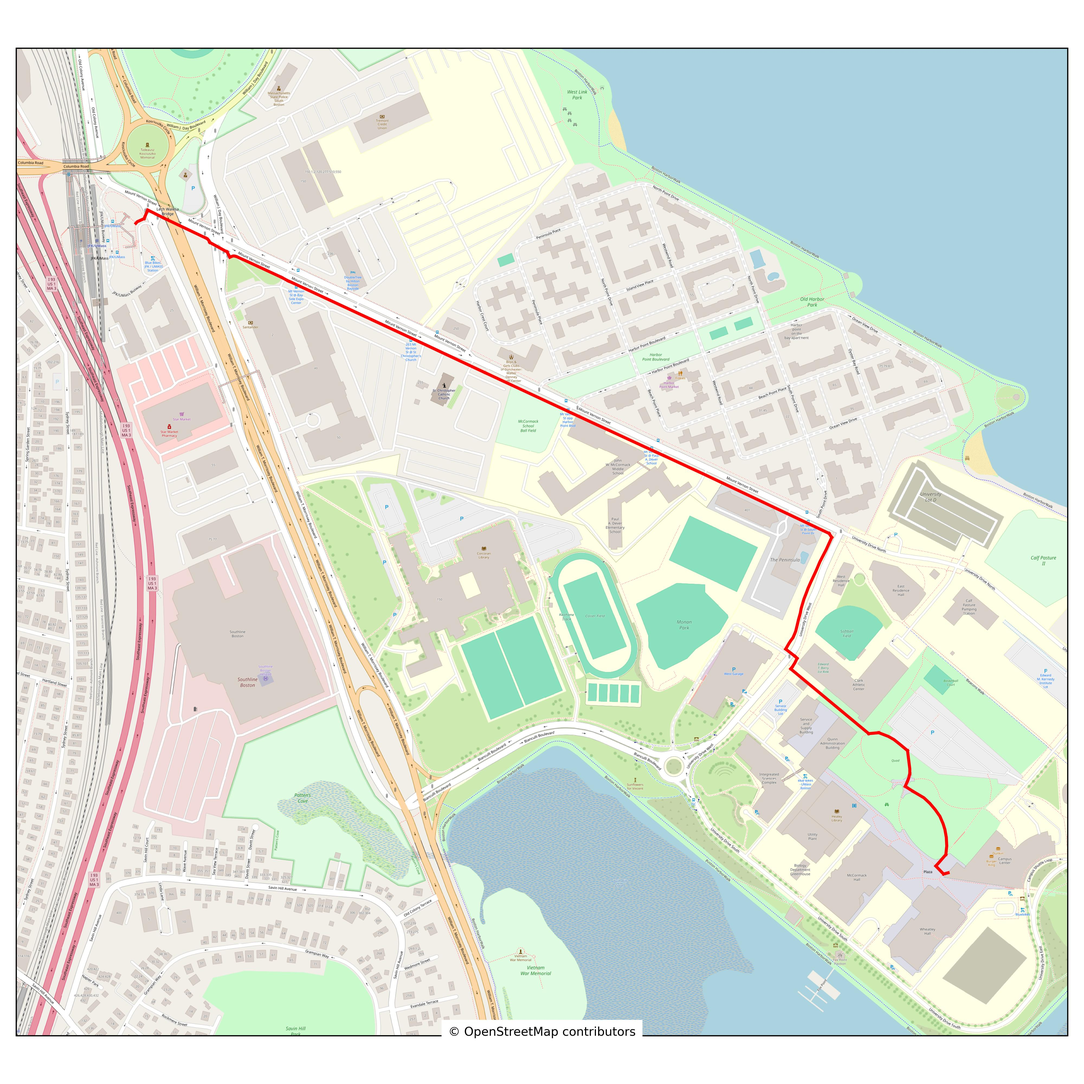
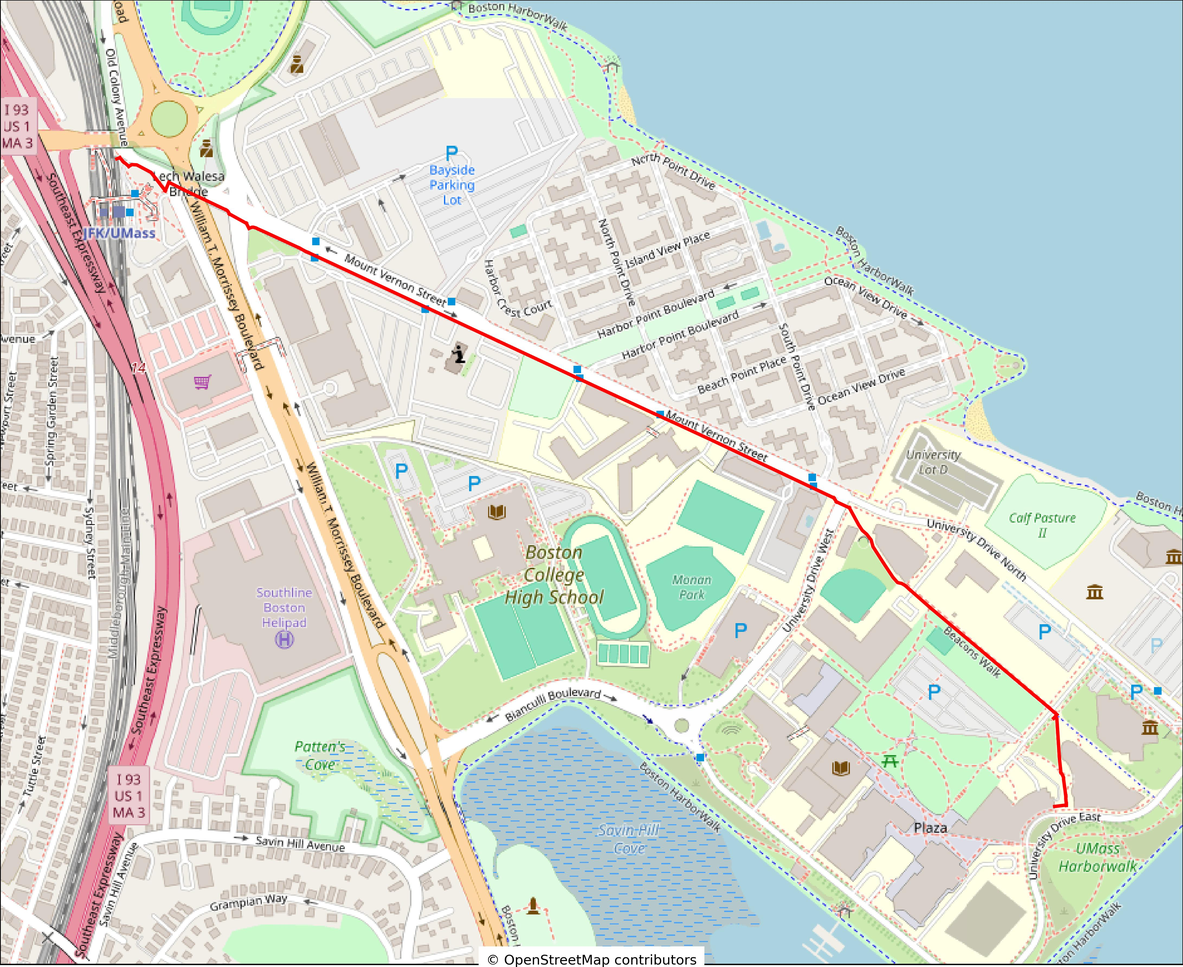
Add search for locations by name (#8)
* Add search for locations that have entrance node in the graph
* Add search soft-matching for locations with no entrance using closest node in a pedestrian way
* Add user interface for search in main file
* update graph area so MBTA red line station is not cut off

diff --git a/src/osm.py b/src/osm.py
@@ -7,7 +7,7 @@ import networkx as nx
 import pickle
 
 UMB_REGION = [
-    (42.3196561, -71.0520413),
+    (42.31984190454275, -71.05251184318851),
     (42.3202193, -71.0510167),
     (42.3175209, -71.0415681),
     (42.3134307, -71.0430135),
@@ -15,14 +15,12 @@ UMB_REGION = [
     (42.3133297, -71.0324853),
     (42.3189148, -71.0332685),
     (42.3235297, -71.0451844),
-    (42.3212511, -71.0521287),
-    (42.3196561, -71.0520413),
+    (42.32119679444875, -71.05265041751876),
+    (42.31984190454275, -71.05251184318851),
 ]
 
 
-def __gcdist(
-    lat0: np.double, lon0: np.double, lat1: np.double, lon1: np.double
-) -> np.single:
+def __gcdist(lat0: np.double, lon0: np.double, lat1: np.double, lon1: np.double) -> np.single:
     """
     Calculate the great circle distance in km between two points in meters using a haversine formula.
     :param lat0:
@@ -43,9 +41,7 @@ def __gcdist(
     return 6378137 * 2 * np.arcsin(np.sqrt(a))
 
 
-def __weight(
-    way: overpy.Way, node1: int = None, node2: int = None
-) -> (float, np.ndarray):
+def __weight(way: overpy.Way, node1: int = None, node2: int = None) -> (float, np.ndarray):
     """
     Calculate the weight of a way using the haversine distance between the points on the path and adds returns the weight and points
     :param way: overpy.Way to for weight to be computed on
@@ -116,8 +112,7 @@ def get_ways(filepath="umb_way_data.pkl", force_download=False) -> overpy.Result
     """
     # check if we already have OpenStreetMap data downloaded if it is less than 24 hours old we import it
     if (
-        os.path.isfile(filepath)
-        and time.time() - os.path.getctime(filepath) > 24 * 60 * 60
+        os.path.isfile(filepath) and time.time() - os.path.getctime(filepath) > 24 * 60 * 60
     ) and not force_download:
         with open(filepath, "rb") as f:
             return pickle.load(f)
@@ -132,9 +127,7 @@ def get_ways(filepath="umb_way_data.pkl", force_download=False) -> overpy.Result
     return ways
 
 
-def convert_ways_to_graph(
-    osm_data: overpy.Result, remove_component_size=10
-) -> nx.Graph:
+def convert_ways_to_graph(osm_data: overpy.Result, remove_component_size=10) -> nx.Graph:
     """
     creates a networkx graph of ways from OpenStreetMap where the weight is the GC distance between the points along the points of the way
     :param osm_data: OpenStreetMap data from overpy
@@ -160,7 +153,7 @@ def convert_ways_to_graph(
         if "area" in way.tags.keys() and way.tags["area"] == "yes":
             nodes = np.array(way._node_ids, dtype=np.int64)
         else:
-            _,_,node_indices = np.intersect1d(graph_nodes, way._node_ids, return_indices=True)
+            _, _, node_indices = np.intersect1d(graph_nodes, way._node_ids, return_indices=True)
             nodes = np.take(np.array(way._node_ids), np.sort(node_indices))
         for i in range(len(nodes) - 1):
             weight, points = __weight(way, nodes[i], nodes[i + 1])
@@ -173,9 +166,7 @@ def convert_ways_to_graph(
     return graph
 
 
-def get_graph(
-    filepath="umb_graph.pkl", force_download=False, remove_component_size=10
-) -> nx.Graph:
+def get_graph(filepath="umb_graph.pkl", force_download=False, remove_component_size=10) -> nx.Graph:
     """
     gets data from OpenStreetMaps and converts it into a networkx graph
     :param filepath: the path to the pickle file containing the networkx graph

diff --git a/src/location_search.py b/src/location_search.py
@@ -1,0 +1,55 @@
+import warnings
+import numpy as np
+import requests
+import overpy
+import networkx as nx
+
+
+def location_search(query: str):
+    query = query.replace(" ", "+")
+    headers = {"User-Agent": "CS310-Navigation"}  # user agent is required for OpenStreetMap APIs
+    res = requests.get(
+        f"https://nominatim.openstreetmap.org/search.php?q={query}&viewbox=-71.05409%2C42.32434%2C-71.03243%2C42.30935&bounded=1&format=jsonv2",
+        headers=headers,
+    )
+    ids = []
+    for result in res.json():
+        ids.append((result["osm_type"], result["osm_id"]))
+    return ids
+
+
+def get_entrances(id):
+    api = overpy.Overpass()
+    res = api.query(f'{id[0]}({id[1]});node(area)[entrance~"main|yes"];out;')
+    return res
+
+
+def get_location_nodes(query: str, graph: nx.Graph):
+    ids = location_search(query)
+    for id in ids:
+        osm = get_entrances(id)
+        nodes = []
+        for node in osm.nodes:
+            if node.id in graph.nodes:
+                nodes.append(node.id)
+        if len(nodes) > 0:
+            return nodes
+    if len(ids) > 0:
+        api = overpy.Overpass()
+        res = api.query(
+            f'({ids[0][0]}({ids[0][1]});)->.poi;way(around.poi: 5)["highway"~"pedestrian|footway|steps|sidewalk|cycleway|path|corridor"];>->.nodes_around;node.nodes_around(around.poi: 5);out;'
+        )
+        nodes = []
+        for node in res.nodes:
+            nodes.append(node.id)
+        nodes.reverse()
+        _, _, node_indices = np.intersect1d(graph.nodes, nodes, return_indices=True)
+        nodes = np.take(np.array(nodes), np.sort(node_indices))
+        return nodes
+    warnings.warn(f"no entrances found for {query}")
+
+
+if __name__ == "__main__":
+    osm_id, res = location_search("university hall")
+    print(osm_id)
+    print(res)

diff --git a/src/plotter.py b/src/plotter.py
@@ -12,9 +12,9 @@ def __zoom_level(extent: np.ndarray) -> int:
     :return: the zoom level number
     """
     m = np.max([np.abs(extent[1] - extent[0]), np.abs(extent[3] - extent[2])])
-    if m > 0.0055:  # if :
+    if m < 0.0055:
         return 18
-    elif m > 0.007749:
+    elif m < 0.007749:
         return 17
     else:
         return 16
@@ -61,27 +61,28 @@ def plot_points(ways: [np.ndarray], directions: str, crop_to_route=True) -> None
         transform=ax.transAxes,
         backgroundcolor="white",
     )
-    ax.text(
-        1.01, 0.9, directions, va="top", ha="left", transform=ax.transAxes, wrap=True
-    )
+    ax.text(1.01, 0.9, directions, va="top", ha="left", transform=ax.transAxes, wrap=True)
     ax.margins(x=5)
     plt.margins(x=1)
     fig.tight_layout()
 
 
-def plot_route(path: [], graph, crop_to_route=True, show=True) -> None:
+def plot_route(path: [], graph, crop_to_route=True, show=True, save_file=None) -> None:
     """
     plots a route given by a list of nodes in the graph onto OpenStreetMap
     :param path: the list of nodes in the graph onto which to plot
     :param graph: the networkx graph
     :param crop_to_route: crops the map to only show the route if false it shows the entire UMass Boston campus
     :param show: the plot window
+    :param save_file: save the figure to a file with the name given by save_file
     :return:
     """
     points = []
     for i in range(1, len(path)):
         points.append(np.array(graph.get_edge_data(path[i - 1], path[i])["points"]))
     plot_points(points, "", crop_to_route=crop_to_route)
+    if save_file is not None and save_file != "":
+        plt.savefig(save_file, bbox_inches="tight", pad_inches=0, dpi=450)
     if show:
         plt.show()
 

diff --git a/src/main.py b/src/main.py
@@ -1,9 +1,31 @@
+import sys
 import networkx as nx
 import osm
 import plotter
+from location_search import get_location_nodes
 
 if __name__ == "__main__":
+    print(len(sys.argv))
+    if len(sys.argv) > 2:
+        start = sys.argv[1]
+        end = sys.argv[2]
+    else:
+        start = input("please enter your starting location ")
+        end = input("please enter your ending location ")
     graph = osm.get_graph()
+    start_nodes = get_location_nodes(start, graph)
+    end_nodes = get_location_nodes(end, graph)
+    print(start_nodes)
+    print(end_nodes)
     # TODO: replace this with dijkstra or A*
-    path = nx.shortest_path(graph, 7671135318, 12677458704)
+    shortest_length = float("inf")
+    start = start_nodes[0]
+    end = end_nodes[0]
+    for start_node in start_nodes:
+        for end_node in end_nodes:
+            len = nx.shortest_path_length(graph, start_node, end_node)
+            if len < shortest_length:
+                shortest_length = len
+                nodes = (start_node, end_node)
+    path = nx.shortest_path(graph, start, end)
     plotter.plot_route(path, graph, crop_to_route=True, show=True)

diff --git a/README.md b/README.md
@@ -11,4 +11,8 @@ python3 -m venv venv
 source venv/bin/activate
 pip install -r requirements.txt
 ```
-to run the project run ``python3 src/main.py``
+to run the project run 
+```bash
+python3 src/main.py
+```
+
